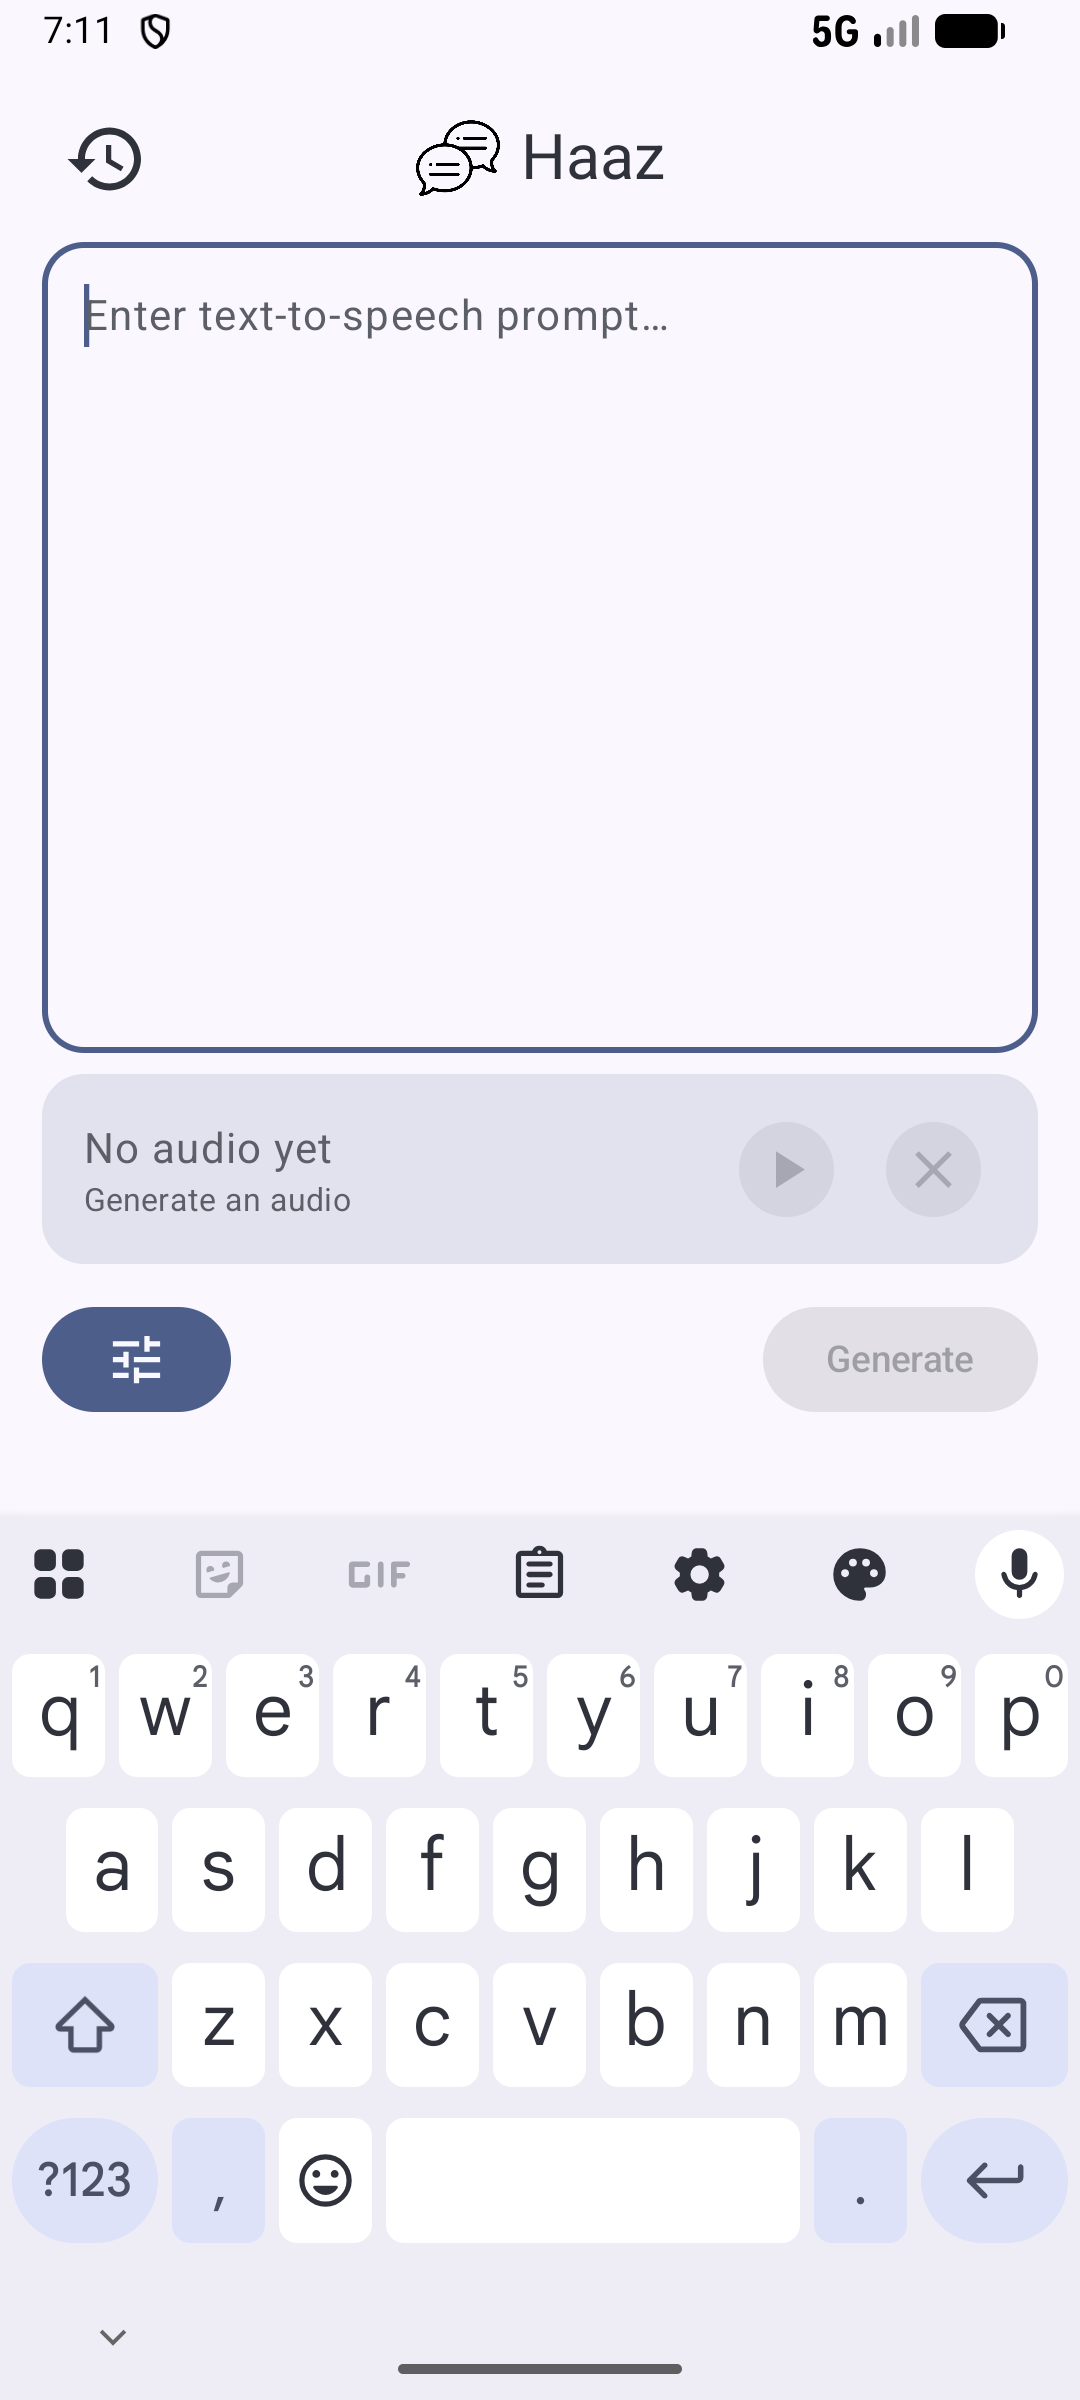
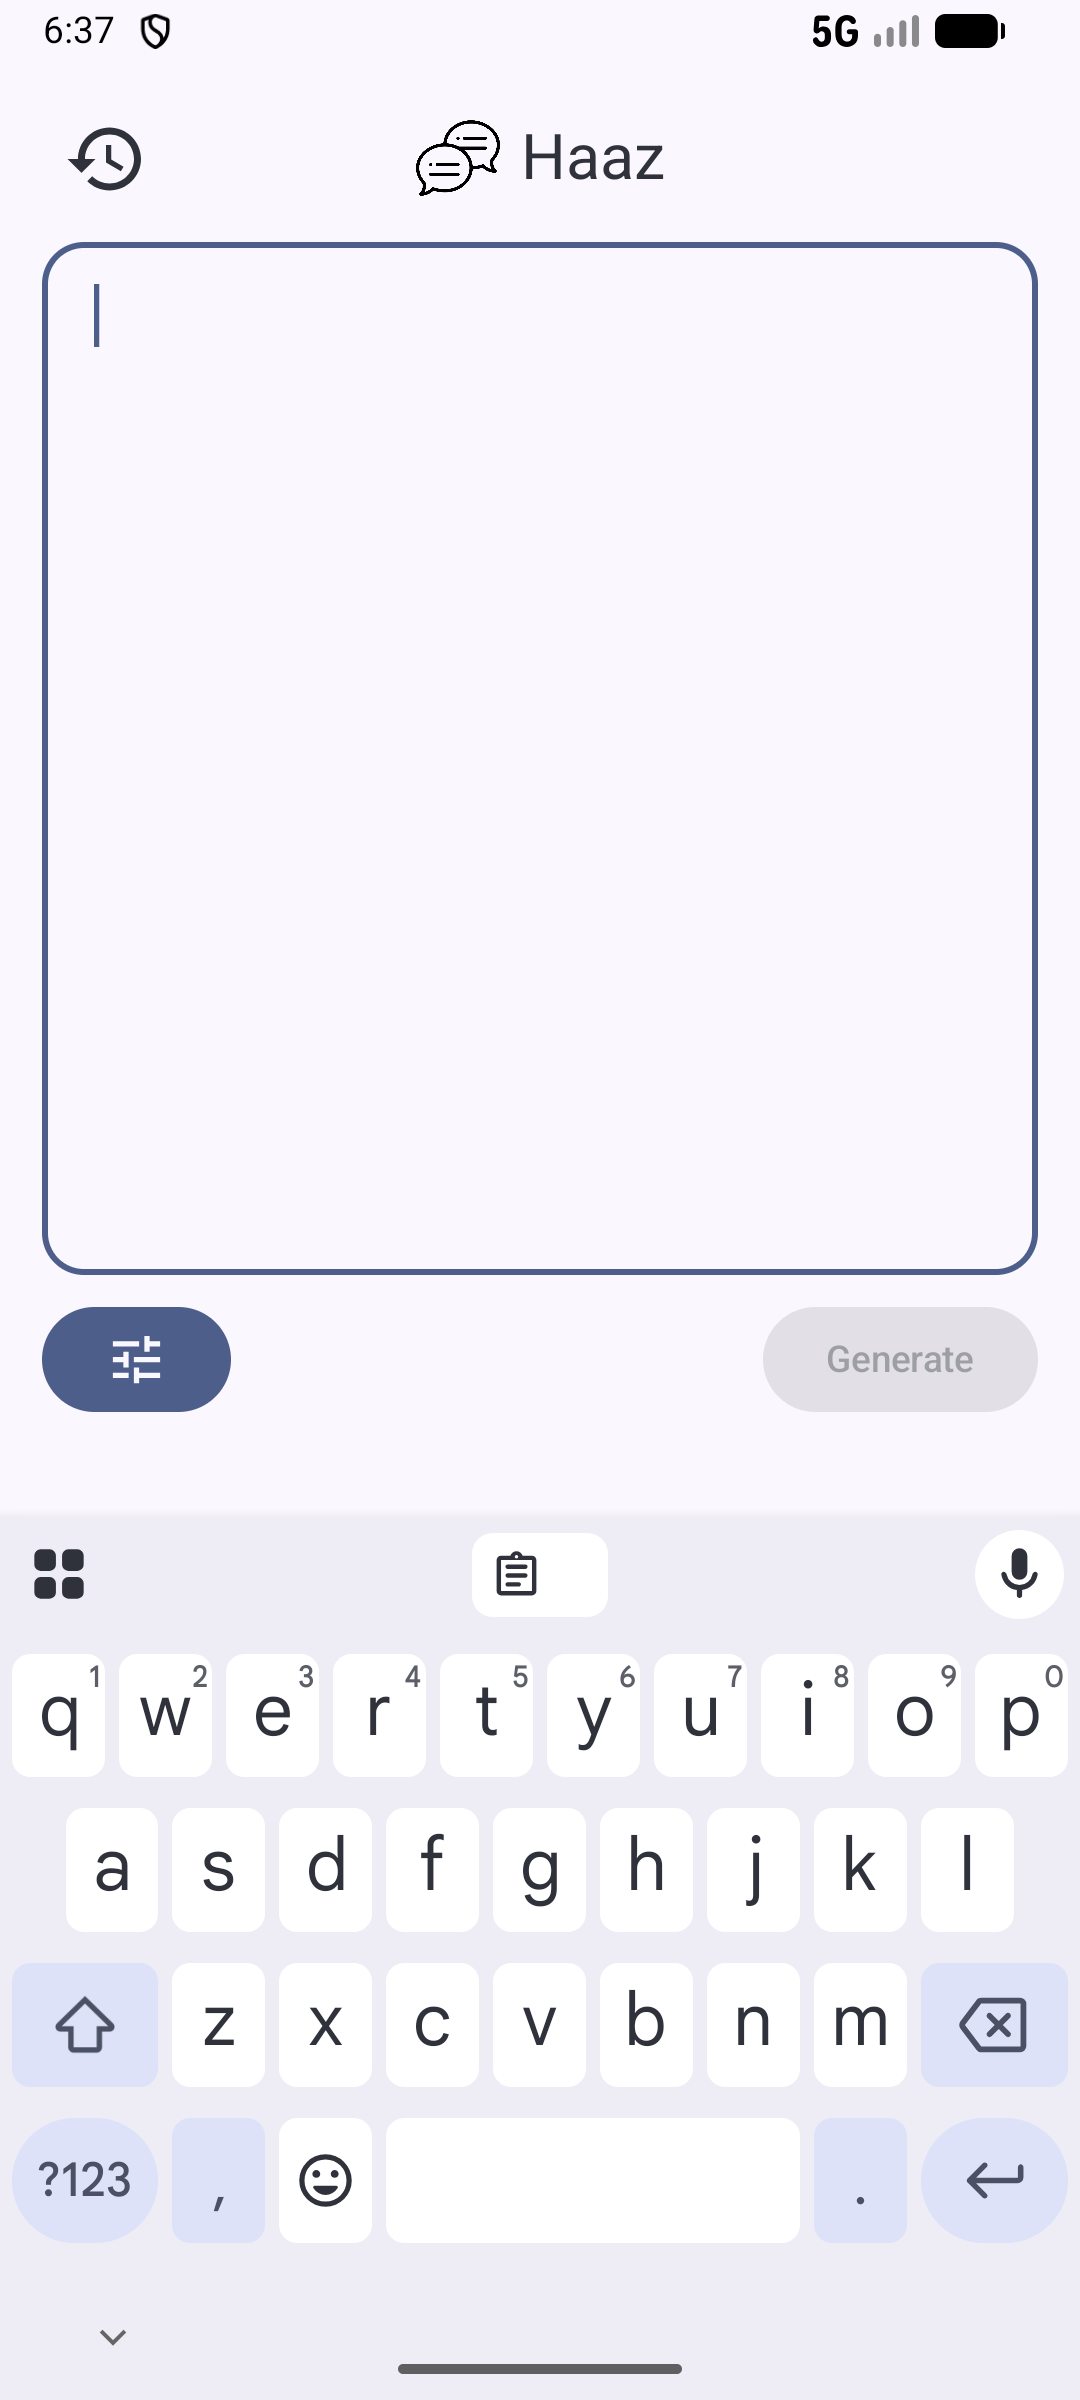
feat: Implement playback bar animation

diff --git a/app/src/main/java/com/haaz/home/HomePage.kt b/app/src/main/java/com/haaz/home/HomePage.kt
@@ -2,6 +2,12 @@
 
 package com.haaz.home
 
+import androidx.compose.animation.AnimatedVisibility
+import androidx.compose.animation.fadeIn
+import androidx.compose.animation.fadeOut
+import androidx.compose.animation.core.tween
+import androidx.compose.animation.slideInVertically
+import androidx.compose.animation.slideOutVertically
 import androidx.compose.foundation.Image
 import androidx.compose.foundation.background
 import androidx.compose.foundation.layout.Arrangement
@@ -183,13 +189,26 @@ private fun HomePageUI(
                 Spacer(modifier = Modifier.height(8.dp))
             }
 
-            PlaybackBar(
-                playback = uiState.playback,
-                onTogglePlayback = { viewModel.onTogglePlayback() },
-                onClose = { viewModel.onClosePlayback() }
-            )
-
-            Spacer(modifier = Modifier.height(12.dp))
+            AnimatedVisibility(
+                visible = uiState.playback != null,
+                enter = slideInVertically(
+                    animationSpec = tween(durationMillis = 200),
+                    initialOffsetY = { fullHeight -> fullHeight }
+                ) + fadeIn(animationSpec = tween(durationMillis = 200)),
+                exit = slideOutVertically(
+                    animationSpec = tween(durationMillis = 200),
+                    targetOffsetY = { fullHeight -> fullHeight }
+                ) + fadeOut(animationSpec = tween(durationMillis = 200))
+            ) {
+                Column {
+                    PlaybackBar(
+                        playback = uiState.playback,
+                        onTogglePlayback = { viewModel.onTogglePlayback() },
+                        onClose = { viewModel.onClosePlayback() }
+                    )
+                    Spacer(modifier = Modifier.height(12.dp))
+                }
+            }
 
             Row(
                 modifier = Modifier.fillMaxWidth(),

diff --git a/README.md b/README.md
@@ -20,6 +20,6 @@ ELEVENLABS_API_KEY=your_api_key_here
 - DataStore for settings persistence
 
 ## Screenshots
-| Home | Playback | Settings | History |
-| --- | --- | --- | --- |
-| ![home.png](docs/screenshots/home.png) | ![playback.png](docs/screenshots/playback.png) | ![settings.png](docs/screenshots/settings.png) | ![history.png](docs/screenshots/history.png) |
+| Home | Playback | Settings | History | E2E flow                             |
+| --- | --- | --- | --- |--------------------------------------|
+| ![home.png](docs/screenshots/home.png) | ![playback.png](docs/screenshots/playback.png) | ![settings.png](docs/screenshots/settings.png) | ![history.png](docs/screenshots/history.png) | ![e2e.gif](docs/screenshots/e2e.gif) |
